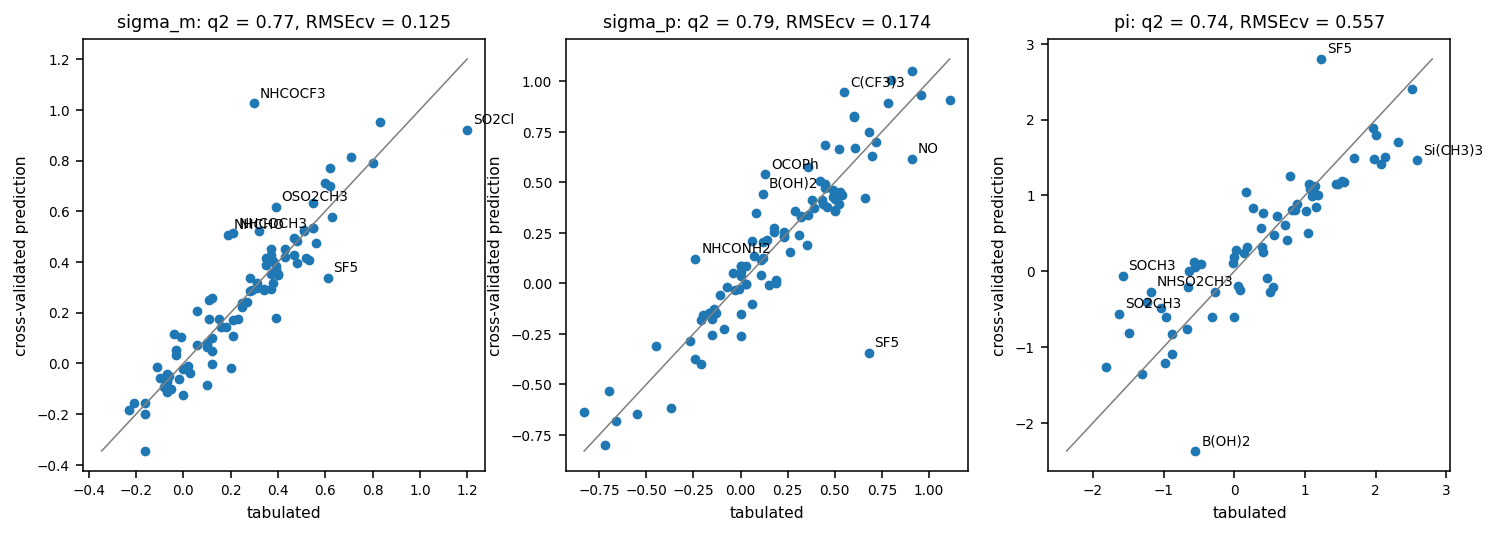
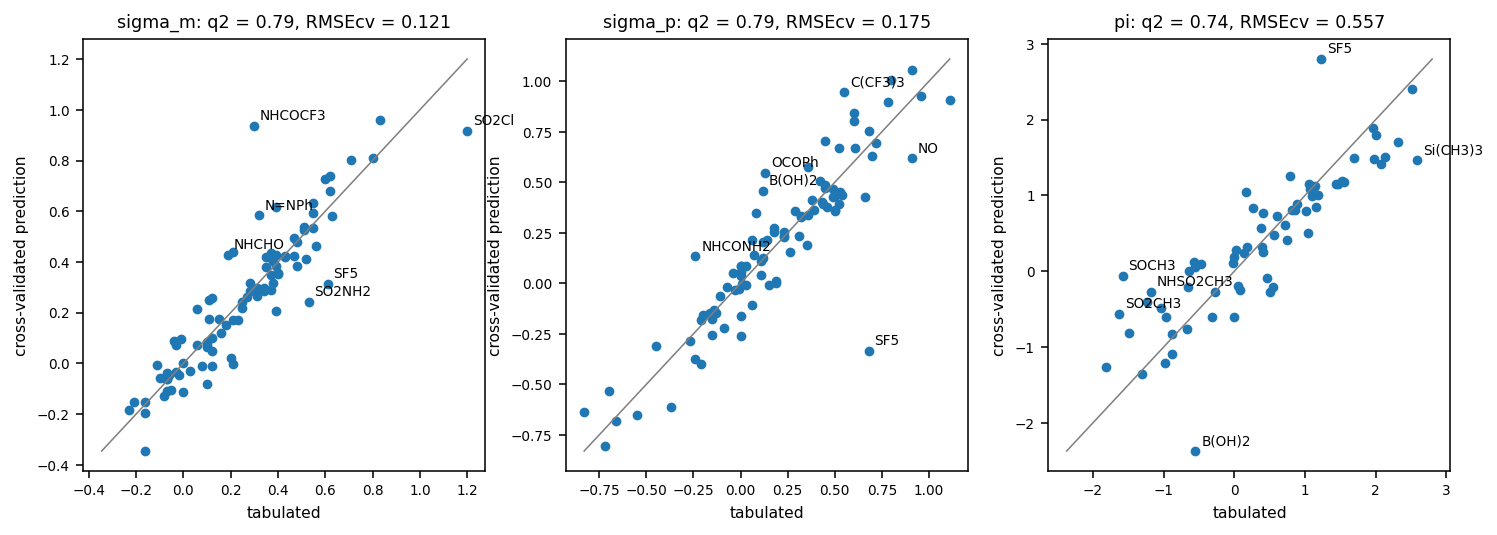
Conformer ensembles on the Hammett set change nothing, and the numbers say why
The ensemble files keep up to eight distinct MMFF conformers per substituent,
distinct now meaning not a symmetry image and not a relabelling of a conformer
already kept (swapped ethoxy groups, permuted SF5 fluorines), with the four
images and the full energy list on every record so the Boltzmann weights read
it. The set is thin: 77 of 95 substituents have one conformer, both amides
among them, since a twisted amide and its mirror image are images in the ring
frame. q2 moves by at most 0.04 in either direction, uniform or Boltzmann,
Gasteiger or Hirshfeld, and the amides move by hundredths: the fourth-dimension
verdict of the binding sets, repeated on a series whose frame is beyond doubt.

Along the way: hammett_qm_sym.sdf had been missed when the CH2OCH3 constant was
corrected and still carried the old value; it is regenerated from hammett_qm.sdf
and its benchmark rerun. The README tables now carry the numbers of the current
runs (Gasteiger 0.70 / 0.69 / 0.71, Hirshfeld 0.79 / 0.78 / 0.74) in place of
the first run's, the claim that only sigma_p gains from whole-molecule charges
is withdrawn (both gain about 0.09), and the result files with the old
_q_hirshfeld tag are removed in favour of the _qm_sym_q_hirshfeld ones.
benchmarks/manifest.json is left for the next regeneration: rebuilding it here
would record result files another session has not yet committed.

diff --git a/README.md b/README.md
@@ -2230,9 +2230,9 @@ folds are the honest measurement). Gasteiger charges, q²:
 
 | constant (sd) | all five | electrostatic | steric | hydrophobic | HBA | HBD |
 |---|---|---|---|---|---|---|
-| σ_m (0.26) | **0.74** (RMSEcv 0.13) | 0.66 | 0.19 | −0.03 | 0.19 | −0.02 |
-| σ_p (0.38) | **0.70** (RMSEcv 0.21) | 0.68 | 0.14 | −0.01 | 0.24 | 0.01 |
-| π (1.09) | **0.78** (RMSEcv 0.51) | 0.40 | 0.29 | 0.72 | 0.28 | 0.28 |
+| σ_m (0.26) | **0.70** (RMSEcv 0.14) | 0.66 | 0.19 | −0.03 | 0.18 | −0.02 |
+| σ_p (0.38) | **0.69** (RMSEcv 0.21) | 0.68 | 0.14 | −0.01 | 0.23 | 0.02 |
+| π (1.09) | **0.71** (RMSEcv 0.59) | 0.38 | 0.30 | 0.72 | 0.27 | 0.28 |
 
 The electrostatic field carries the Hammett constants, as it should, and the hydrophobic field
 carries π; that π is recovered only to q² 0.72 from a field whose weights are the Crippen increments
@@ -2245,9 +2245,9 @@ constant and a donor that does the opposite lowers it. This is the learned form 
 electrostatic model of the field effect. The para co-field has the larger weight over the ring and
 the deeper lobes at the substituent; it also has the larger errors, and they are the resonance
 cases that fragment charges cannot see: the strong π donors N(CH3)2, NHCH3 and NHNH2 are predicted
-far too high (N(CH3)2: −0.34 for a tabulated −0.83) and the nitroso group far too low (0.31 for
-0.91). For σ_m the worst cases are the extreme acceptors SO2Cl and NO2, which the kernel treats as
-more of the same. The steric field alone sees a little of σ_m (0.19) and nothing of σ_p: it acts as
+far too high (N(CH3)2: −0.32 for a tabulated −0.83) and the nitroso group far too low (0.34 for
+0.91). For σ_m the worst cases are the extreme acceptors SO2Cl and NO2 (0.61 for 1.20, 1.10 for
+0.71), which the kernel treats as more of the same. The steric field alone sees a little of σ_m (0.19) and nothing of σ_p: it acts as
 a heavy-atom count, not as anything Hammett measured.
 
 ```bash
@@ -2265,28 +2265,60 @@ ten minutes for the set six at a time), q²:
 
 | constant | all five, Hirshfeld | Hirshfeld alone | all five, Gasteiger |
 |---|---|---|---|
-| σ_m | 0.74 (RMSEcv 0.13) | 0.66 | 0.74 |
-| σ_p | **0.80** (RMSEcv 0.17) | 0.71 | 0.70 |
-| π | 0.75 | 0.38 | 0.78 |
+| σ_m | **0.79** (RMSEcv 0.12) | 0.66 | 0.70 |
+| σ_p | **0.78** (RMSEcv 0.18) | 0.71 | 0.69 |
+| π | 0.74 | 0.33 | 0.71 |
 
-σ_m does not move and σ_p does, which is the division of labour the two constants are supposed to
-express: the field effect was already in the fragment charges, the resonance effect was not. The
-donors that the Gasteiger model missed are now right (N(CH3)2 −0.72 for −0.83, NH2 −0.67 for −0.66,
-nitroso 0.68 for 0.91), and the co-fields
-(`benchmarks/results/hammett/cofields_q_hirshfeld.png`) now separate: the σ_m co-field puts its
-positive weight on the two meta carbons and the first atom of the substituent, the σ_p co-field
-spreads it over the whole ring with the para carbon included, and both keep the negative lobes at the
-periphery of the substituent. The selected λ is small (10⁻³) and the fitted r² is 0.998, so the
+Both constants gain about 0.09 in q², and the gain is where it was predicted to be. The donors that
+the Gasteiger model missed are now close (N(CH3)2 −0.62 for −0.83, NH2 −0.69 for −0.66, nitroso 0.60
+for 0.91), and the co-fields (`benchmarks/results/hammett/cofields_qm_sym_q_hirshfeld.png`) separate:
+the σ_m co-field puts its positive weight on the two meta carbons and a negative lobe on the ipso
+carbon and the first atom of the substituent, the σ_p co-field spreads the positive weight over the
+whole ring with the para carbon included and puts the deeper negative lobes at the periphery of the
+substituent. The selected λ is small (10⁻³ to 10⁻²) and the fitted r² is 0.99, so the
 cross-validated numbers are the ones to trust and the fine structure of the co-fields beyond the ring
-should be read as the kernel's, not the chemistry's. The remaining σ_p errors are of another kind:
-CONH2 is predicted 1.14 for 0.36 and N(CH3)COCH3 −0.20 for 0.26, both amides whose single MMFF
-conformer puts the carbonyl where the lowest-energy one may not, which is the conformer question the
-ensemble mode is there to answer.
+should be read as the kernel's, not the chemistry's. The largest σ_p errors left are the two amides,
+CONH2 (0.61 for 0.36) and N(CH3)COCH3 (0.06 for 0.26).
 
 ```bash
 python examples/orca_atom_properties.py examples/hammett/hammett.sdf --fast --no-fukui --jobs 6 -o examples/hammett/hammett_qm.sdf
 python examples/make_hammett_examples.py --symmetrize examples/hammett/hammett_qm.sdf
 python benchmarks/run_hammett.py --sdf examples/hammett/hammett_qm_sym.sdf --charges-prop q_hirshfeld
+```
+
+**Conformer ensembles change nothing here, and the measurement says why.** `make_hammett_examples.py
+--ensemble 8` keeps up to eight distinct MMFF conformers per substituent within 6 kcal/mol, distinct
+meaning further than 0.3 Å (RMSD over the heavy atoms and the polar hydrogens) from every symmetry
+image of every conformer already kept and not a relabelling of one (the sorted shape-atom distances
+differ by more), since swapping two ethoxy groups or permuting the fluorines of SF5 gives the force
+field a new conformer and the field the same shape. Each conformer is written with its four images
+and the full energy list, so the Boltzmann weights of the ensemble mode read it; `--atom-props-from`
+copies the Hirshfeld charges of the lowest conformer onto all of them, which is what the ensemble
+field uses in any case, since it takes its atomic weights from its first member. The set is thin:
+77 of the 95 substituents have one conformer, 14 have two, the largest (n-butyl, diethylamino,
+diethyl phosphonate) have three to five, 1.3 on average, and both amides have exactly one, because
+the twisted amide and its mirror image are symmetry images in this frame. q²:
+
+| constant | single conformer | ensemble, uniform | ensemble, Boltzmann (kT 0.6) |
+|---|---|---|---|
+| σ_m, Gasteiger | 0.70 | 0.70 | 0.70 |
+| σ_p, Gasteiger | 0.69 | 0.69 | 0.69 |
+| σ_m, Hirshfeld | 0.79 | 0.75 | 0.79 |
+| σ_p, Hirshfeld | 0.78 | 0.80 | 0.79 |
+| π, Gasteiger | 0.71 | 0.71 | 0.70 |
+
+Every difference is within the interval of a 95-compound q², the co-fields are the same pictures,
+and the amides move by a few hundredths (CONH2 0.58, N(CH3)COCH3 0.15 under Boltzmann weights). So
+the amide errors are not a conformer problem that MMFF can see; whether they are a charge problem
+(Hirshfeld charges of a conjugated amide on an MMFF geometry) or a tabulation problem is left open.
+This is the same verdict the fourth dimension received on the binding sets, reached on a series
+where the frame is beyond doubt, which removes the one excuse those sets had.
+
+```bash
+python examples/make_hammett_examples.py --ensemble 8
+python examples/make_hammett_examples.py --ensemble 8 --atom-props-from examples/hammett/hammett_qm.sdf
+python benchmarks/run_hammett.py --sdf examples/hammett/hammett_ens.sdf --weighting boltzmann
+python benchmarks/run_hammett.py --sdf examples/hammett/hammett_ens_qm.sdf --charges-prop q_hirshfeld --weighting boltzmann
 ```
 
 ### Two endpoints on one kernel: the selectivity co-field

diff --git a/benchmarks/results/hammett/table.md b/benchmarks/results/hammett/table.md
@@ -65,7 +65,7 @@ One table per run of `benchmarks/run_hammett.py`, named by the tag of its summar
 | sigma_m | hba | 95 | 0.3 | 1 | 0.18 | 0.24 | 0.24 | 0.26 |
 | sigma_m | hbd | 95 | 0.3 | 10 | -0.02 | 0.26 | 0.03 | 0.26 |
 | sigma_m | electrostatic+steric | 95 | 2 | 1 | 0.68 | 0.15 | 0.77 | 0.26 |
-| sigma_p | electrostatic+steric+hydrophobic+hba+hbd | 95 | 0.5 | 1 | 0.69 | 0.21 | 0.82 | 0.38 |
+| sigma_p | electrostatic+steric+hydrophobic+hba+hbd | 95 | 0.5 | 1 | 0.69 | 0.22 | 0.82 | 0.38 |
 | sigma_p | electrostatic | 95 | 0.8 | 1 | 0.68 | 0.22 | 0.74 | 0.38 |
 | sigma_p | steric | 95 | 1.2 | 0.001 | 0.14 | 0.36 | 0.37 | 0.38 |
 | sigma_p | hydrophobic | 95 | 3 | 10 | -0.01 | 0.39 | 0.07 | 0.38 |
@@ -84,13 +84,13 @@ One table per run of `benchmarks/run_hammett.py`, named by the tag of its summar
 
 | target | fields | n | α | λ | q² | RMSEcv | r² fit | sd(y) |
 |---|---|---|---|---|---|---|---|---|
-| sigma_m | prop:q_hirshfeld+steric+hydrophobic+hba+hbd | 95 | 1.2 | 0.01 | 0.74 | 0.13 | 0.98 | 0.26 |
-| sigma_m | prop:q_hirshfeld | 95 | 1.2 | 0.001 | 0.67 | 0.15 | 0.94 | 0.26 |
+| sigma_m | prop:q_hirshfeld+steric+hydrophobic+hba+hbd | 95 | 1.2 | 0.01 | 0.75 | 0.13 | 0.98 | 0.26 |
+| sigma_m | prop:q_hirshfeld | 95 | 0.8 | 0.001 | 0.68 | 0.15 | 0.94 | 0.26 |
 | sigma_m | steric | 95 | 0.8 | 0.001 | 0.19 | 0.24 | 0.36 | 0.26 |
 | sigma_m | hydrophobic | 95 | 3 | 10 | -0.03 | 0.27 | 0.05 | 0.26 |
 | sigma_m | hba | 95 | 0.3 | 1 | 0.18 | 0.24 | 0.24 | 0.26 |
 | sigma_m | hbd | 95 | 0.3 | 10 | -0.02 | 0.26 | 0.03 | 0.26 |
-| sigma_m | prop:q_hirshfeld+steric | 95 | 1.2 | 0.001 | 0.67 | 0.15 | 0.97 | 0.26 |
+| sigma_m | prop:q_hirshfeld+steric | 95 | 1.2 | 0.001 | 0.68 | 0.15 | 0.97 | 0.26 |
 | sigma_p | prop:q_hirshfeld+steric+hydrophobic+hba+hbd | 95 | 2 | 0.01 | 0.80 | 0.17 | 0.99 | 0.38 |
 | sigma_p | prop:q_hirshfeld | 95 | 3 | 0.01 | 0.73 | 0.20 | 0.96 | 0.38 |
 | sigma_p | steric | 95 | 1.2 | 0.01 | 0.13 | 0.36 | 0.28 | 0.38 |
@@ -110,20 +110,20 @@ One table per run of `benchmarks/run_hammett.py`, named by the tag of its summar
 
 | target | fields | n | α | λ | q² | RMSEcv | r² fit | sd(y) |
 |---|---|---|---|---|---|---|---|---|
-| sigma_m | prop:q_hirshfeld+steric+hydrophobic+hba+hbd | 95 | 0.8 | 0.001 | 0.77 | 0.12 | 0.99 | 0.26 |
-| sigma_m | prop:q_hirshfeld | 95 | 0.8 | 0.001 | 0.67 | 0.15 | 0.94 | 0.26 |
+| sigma_m | prop:q_hirshfeld+steric+hydrophobic+hba+hbd | 95 | 0.8 | 0.001 | 0.79 | 0.12 | 0.99 | 0.26 |
+| sigma_m | prop:q_hirshfeld | 95 | 0.8 | 0.001 | 0.68 | 0.15 | 0.94 | 0.26 |
 | sigma_m | steric | 95 | 0.8 | 0.001 | 0.20 | 0.23 | 0.36 | 0.26 |
 | sigma_m | hydrophobic | 95 | 3 | 10 | -0.03 | 0.27 | 0.06 | 0.26 |
 | sigma_m | hba | 95 | 0.3 | 1 | 0.18 | 0.24 | 0.24 | 0.26 |
 | sigma_m | hbd | 95 | 0.3 | 10 | -0.02 | 0.26 | 0.03 | 0.26 |
-| sigma_m | prop:q_hirshfeld+steric | 95 | 0.8 | 0.001 | 0.63 | 0.16 | 0.96 | 0.26 |
+| sigma_m | prop:q_hirshfeld+steric | 95 | 0.8 | 0.001 | 0.64 | 0.16 | 0.96 | 0.26 |
 | sigma_p | prop:q_hirshfeld+steric+hydrophobic+hba+hbd | 95 | 3 | 0.01 | 0.79 | 0.17 | 1.00 | 0.38 |
 | sigma_p | prop:q_hirshfeld | 95 | 0.8 | 0.01 | 0.72 | 0.20 | 0.93 | 0.38 |
 | sigma_p | steric | 95 | 1.2 | 0.001 | 0.14 | 0.36 | 0.37 | 0.38 |
 | sigma_p | hydrophobic | 95 | 3 | 10 | -0.01 | 0.39 | 0.07 | 0.38 |
 | sigma_p | hba | 95 | 3 | 1 | 0.23 | 0.34 | 0.40 | 0.38 |
 | sigma_p | hbd | 95 | 3 | 10 | 0.02 | 0.38 | 0.09 | 0.38 |
-| sigma_p | prop:q_hirshfeld+steric | 95 | 0.8 | 0.1 | 0.71 | 0.21 | 0.91 | 0.38 |
+| sigma_p | prop:q_hirshfeld+steric | 95 | 0.8 | 0.1 | 0.70 | 0.21 | 0.91 | 0.38 |
 | pi | prop:q_hirshfeld+steric+hydrophobic+hba+hbd | 69 | 0.3 | 1 | 0.74 | 0.56 | 0.84 | 1.09 |
 | pi | prop:q_hirshfeld | 69 | 0.3 | 0.1 | 0.34 | 0.88 | 0.48 | 1.09 |
 | pi | steric | 69 | 1.2 | 0.1 | 0.27 | 0.93 | 0.37 | 1.09 |
@@ -132,43 +132,17 @@ One table per run of `benchmarks/run_hammett.py`, named by the tag of its summar
 | pi | hbd | 69 | 0.3 | 1 | 0.28 | 0.92 | 0.33 | 1.09 |
 | pi | prop:q_hirshfeld+steric | 69 | 0.8 | 0.001 | 0.56 | 0.72 | 0.90 | 1.09 |
 
-## `_q_hirshfeld`
-
-| target | fields | n | α | λ | q² | RMSEcv | r² fit | sd(y) |
-|---|---|---|---|---|---|---|---|---|
-| sigma_m | prop:q_hirshfeld+steric+hydrophobic+hba+hbd | 95 | 2 | 0.001 | 0.74 | 0.13 | 1.00 | 0.26 |
-| sigma_m | prop:q_hirshfeld | 95 | 0.3 | 0.001 | 0.66 | 0.15 | 0.90 | 0.26 |
-| sigma_m | steric | 95 | 1.2 | 0.01 | 0.19 | 0.24 | 0.33 | 0.26 |
-| sigma_m | hydrophobic | 95 | 3 | 10 | -0.03 | 0.27 | 0.06 | 0.26 |
-| sigma_m | hba | 95 | 2 | 1 | 0.19 | 0.24 | 0.32 | 0.26 |
-| sigma_m | hbd | 95 | 0.3 | 10 | -0.02 | 0.26 | 0.03 | 0.26 |
-| sigma_m | prop:q_hirshfeld+steric | 95 | 0.8 | 0.1 | 0.63 | 0.16 | 0.87 | 0.26 |
-| sigma_p | prop:q_hirshfeld+steric+hydrophobic+hba+hbd | 95 | 2 | 0.001 | 0.80 | 0.17 | 1.00 | 0.38 |
-| sigma_p | prop:q_hirshfeld | 95 | 1.2 | 0.1 | 0.71 | 0.21 | 0.91 | 0.38 |
-| sigma_p | steric | 95 | 1.2 | 0.01 | 0.14 | 0.35 | 0.30 | 0.38 |
-| sigma_p | hydrophobic | 95 | 3 | 10 | -0.01 | 0.39 | 0.07 | 0.38 |
-| sigma_p | hba | 95 | 2 | 1 | 0.24 | 0.33 | 0.38 | 0.38 |
-| sigma_p | hbd | 95 | 3 | 10 | 0.01 | 0.38 | 0.09 | 0.38 |
-| sigma_p | prop:q_hirshfeld+steric | 95 | 0.5 | 0.1 | 0.70 | 0.21 | 0.90 | 0.38 |
-| pi | prop:q_hirshfeld+steric+hydrophobic+hba+hbd | 69 | 0.3 | 1 | 0.74 | 0.55 | 0.85 | 1.09 |
-| pi | prop:q_hirshfeld | 69 | 2 | 0.01 | 0.38 | 0.85 | 0.83 | 1.09 |
-| pi | steric | 69 | 0.5 | 0.001 | 0.29 | 0.92 | 0.48 | 1.09 |
-| pi | hydrophobic | 69 | 0.3 | 0.1 | 0.72 | 0.58 | 0.80 | 1.09 |
-| pi | hba | 69 | 0.5 | 1 | 0.28 | 0.92 | 0.34 | 1.09 |
-| pi | hbd | 69 | 3 | 1 | 0.28 | 0.92 | 0.35 | 1.09 |
-| pi | prop:q_hirshfeld+steric | 69 | 0.8 | 0.001 | 0.63 | 0.66 | 0.90 | 1.09 |
-
 ## `_qm_sym_q_hirshfeld`
 
 | target | fields | n | α | λ | q² | RMSEcv | r² fit | sd(y) |
 |---|---|---|---|---|---|---|---|---|
-| sigma_m | prop:q_hirshfeld+steric+hydrophobic+hba+hbd | 95 | 0.8 | 0.001 | 0.78 | 0.12 | 0.99 | 0.26 |
+| sigma_m | prop:q_hirshfeld+steric+hydrophobic+hba+hbd | 95 | 0.8 | 0.001 | 0.79 | 0.12 | 0.99 | 0.26 |
 | sigma_m | prop:q_hirshfeld | 95 | 0.5 | 0.001 | 0.66 | 0.15 | 0.92 | 0.26 |
-| sigma_m | steric | 95 | 1.2 | 0.01 | 0.19 | 0.24 | 0.32 | 0.26 |
+| sigma_m | steric | 95 | 1.2 | 0.01 | 0.19 | 0.24 | 0.33 | 0.26 |
 | sigma_m | hydrophobic | 95 | 3 | 10 | -0.03 | 0.27 | 0.06 | 0.26 |
 | sigma_m | hba | 95 | 0.3 | 1 | 0.18 | 0.24 | 0.24 | 0.26 |
 | sigma_m | hbd | 95 | 0.3 | 10 | -0.02 | 0.26 | 0.03 | 0.26 |
-| sigma_m | prop:q_hirshfeld+steric | 95 | 0.8 | 0.1 | 0.61 | 0.16 | 0.87 | 0.26 |
+| sigma_m | prop:q_hirshfeld+steric | 95 | 0.8 | 0.1 | 0.61 | 0.16 | 0.86 | 0.26 |
 | sigma_p | prop:q_hirshfeld+steric+hydrophobic+hba+hbd | 95 | 3 | 0.01 | 0.78 | 0.18 | 1.00 | 0.38 |
 | sigma_p | prop:q_hirshfeld | 95 | 0.8 | 0.01 | 0.71 | 0.21 | 0.93 | 0.38 |
 | sigma_p | steric | 95 | 1.2 | 0.01 | 0.14 | 0.36 | 0.30 | 0.38 |
